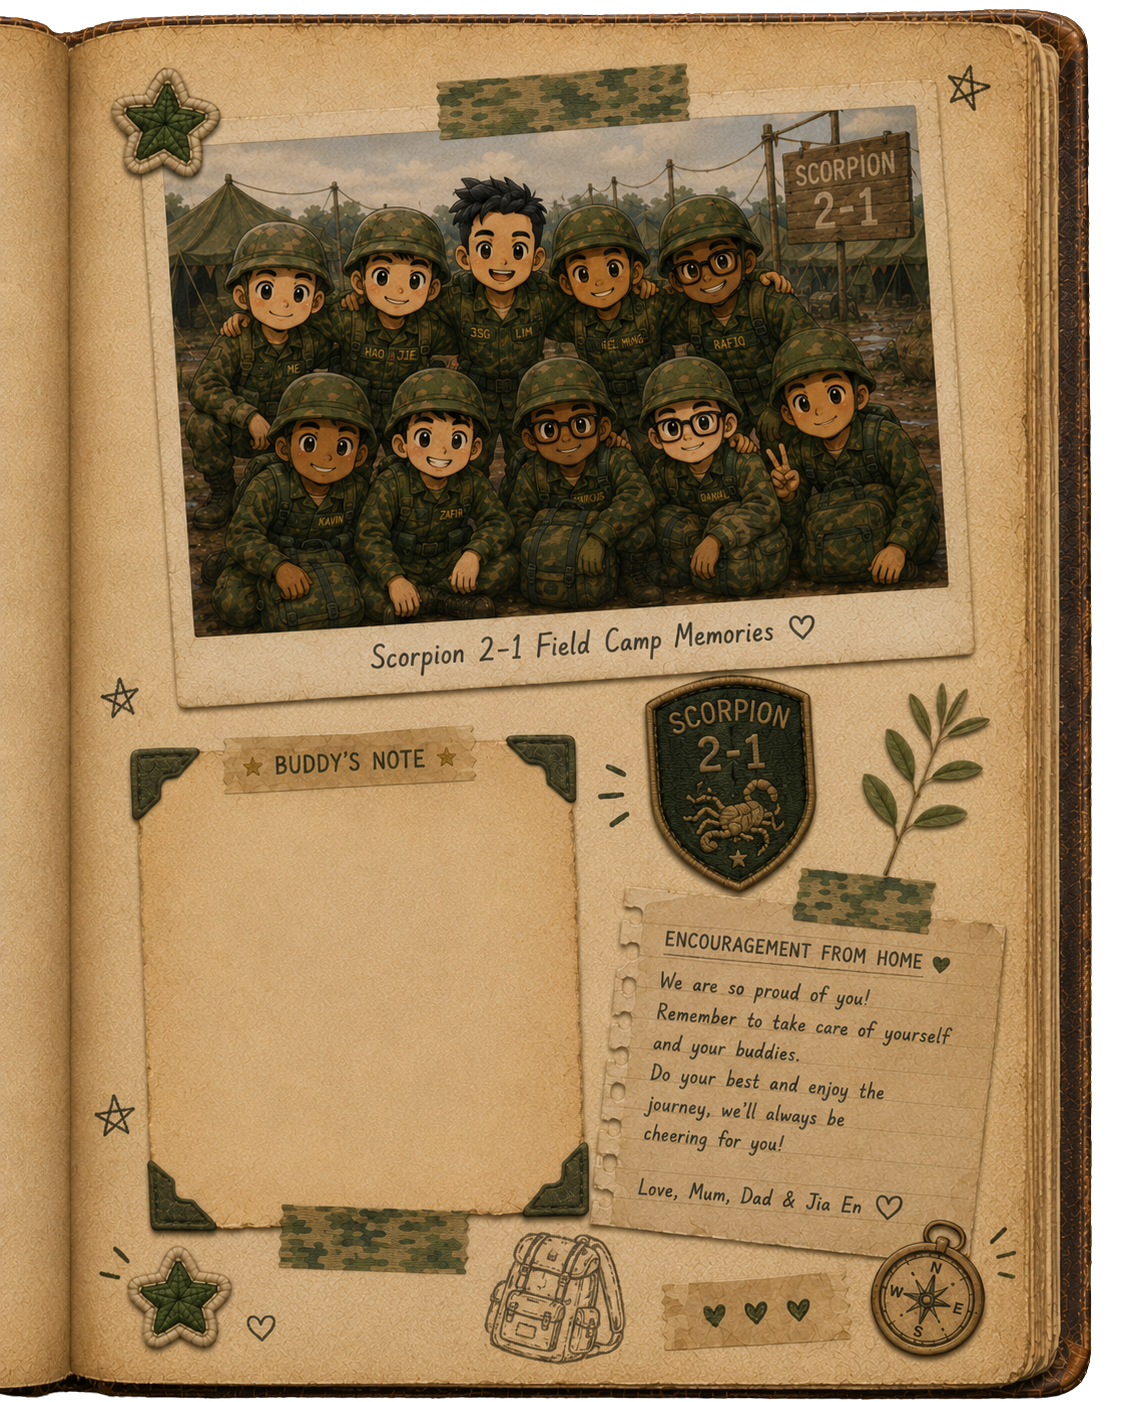
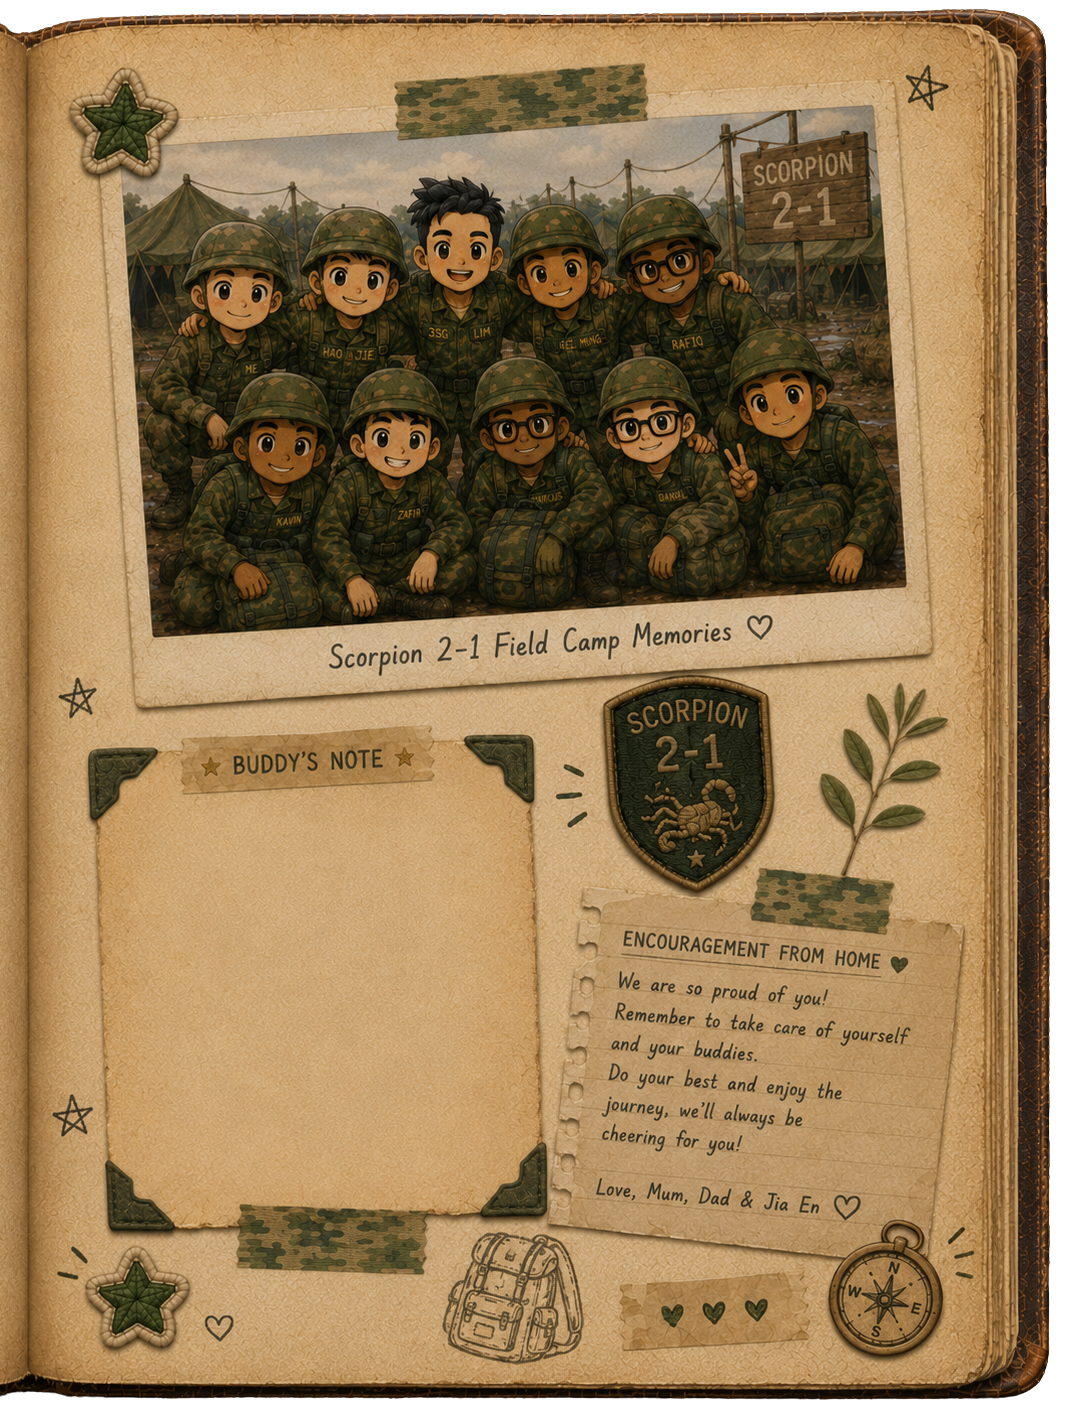
style: pop page

diff --git a/frontend/src/pages/JournalPage.jsx b/frontend/src/pages/JournalPage.jsx
@@ -451,7 +451,7 @@ const FieldCampRight = forwardRef(function FieldCampRight({ buddyNote }, ref) {
       <img
         src="/assets/journal/fieldcamp_right.png"
         alt="Field Camp Right"
-        style={{ position: "absolute", inset: 0, width: "100%", height: "99%", objectFit: "cover" }}
+        style={{ position: "absolute", inset: 0, width: "100%", height: "100%", objectFit: "cover" }}
       />
       {/* BUDDY'S NOTE lined slot (bottom-left); lines ~ x:9%-37%, y:57%-79% */}
       <div style={{
@@ -469,6 +469,63 @@ const FieldCampRight = forwardRef(function FieldCampRight({ buddyNote }, ref) {
           fontSize: 13,
           color: C.ink,
           lineHeight: "13px",
+          whiteSpace: "pre-wrap",
+          margin: 0,
+        }}>
+          {displayNote}
+        </p>
+      </div>
+    </div>
+  );
+});
+
+// ── POP LEFT — passing-out parade spread, image only ──
+const PopLeft = forwardRef(function PopLeft(_props, ref) {
+  return (
+    <div ref={ref} style={{ ...pageBase }}>
+      <img
+        src="/assets/journal/pop_left.png"
+        alt="POP Left"
+        /* Image has a book-spine/binding crease baked into its right edge.
+           Render ~3% wider than the page and anchor top-left so the page's
+           overflow:hidden clips that crease off the right side. */
+        style={{ position: "absolute", top: 0, left: 0, width: "103%", height: "99%", objectFit: "cover", objectPosition: "center" }}
+      />
+    </div>
+  );
+});
+
+// ── POP RIGHT — graduation spread + commander's send-off in COMMANDER'S NOTE slot ──
+const PopRight = forwardRef(function PopRight({ commanderNote }, ref) {
+  // POP send-off — different in tone from the enlistment (welcome) and BMT
+  // (proud-of-your-progress) notes: this one is a farewell as the soldier
+  // graduates BMT and moves on to their vocation.
+  const displayNote = commanderNote
+    || "Alex,\n\nMy job was to take a scared recruit and hand back a soldier. Today I'm done. You don't need me anymore.\n\nWherever you post out to, lead the way you marched: heart first. Make us proud.\n\n— 3SG Lim";
+
+  return (
+    <div ref={ref} style={{ ...pageBase }}>
+      <img
+        src="/assets/journal/pop_right.png"
+        alt="POP Right"
+        style={{ position: "absolute", inset: 0, width: "100%", height: "99%", objectFit: "cover" }}
+      />
+      {/* COMMANDER'S NOTE lined slot (center-right); card ~ x:57%-91%, y:55%-79% */}
+      <div style={{
+        position: "absolute",
+        top: "53%",
+        left: "54.5%",
+        transform: "rotate(5.5deg)",
+        width: "32%",
+        height: "30%",
+        overflow: "hidden",
+        boxSizing: "border-box",
+      }}>
+        <p style={{
+          fontFamily: "'VT323', monospace",
+          fontSize: 12,
+          color: C.ink,
+          lineHeight: "14px",
           whiteSpace: "pre-wrap",
           margin: 0,
         }}>
@@ -655,7 +712,7 @@ function renderPage(entry) {
 function JournalFlipbook({ onClose }) {
   const bookRef = useRef(null);
   const [currentPage, setCurrentPage] = useState(0);
-  const totalPages = journalEntries.length + 8;
+  const totalPages = journalEntries.length + 10;
 
   const onFlip = useCallback(function (e) { setCurrentPage(e.data); }, []);
 
@@ -683,6 +740,8 @@ function JournalFlipbook({ onClose }) {
           <BmtChapterRight userNote={null} commanderNote={null} />
           <FieldCampLeft userNote={null} />
           <FieldCampRight buddyNote={null} />
+          <PopLeft />
+          <PopRight commanderNote={null} />
           {journalEntries.map(function (entry) { return renderPage(entry); })}
           <BackCover />
         </HTMLFlipBook>
